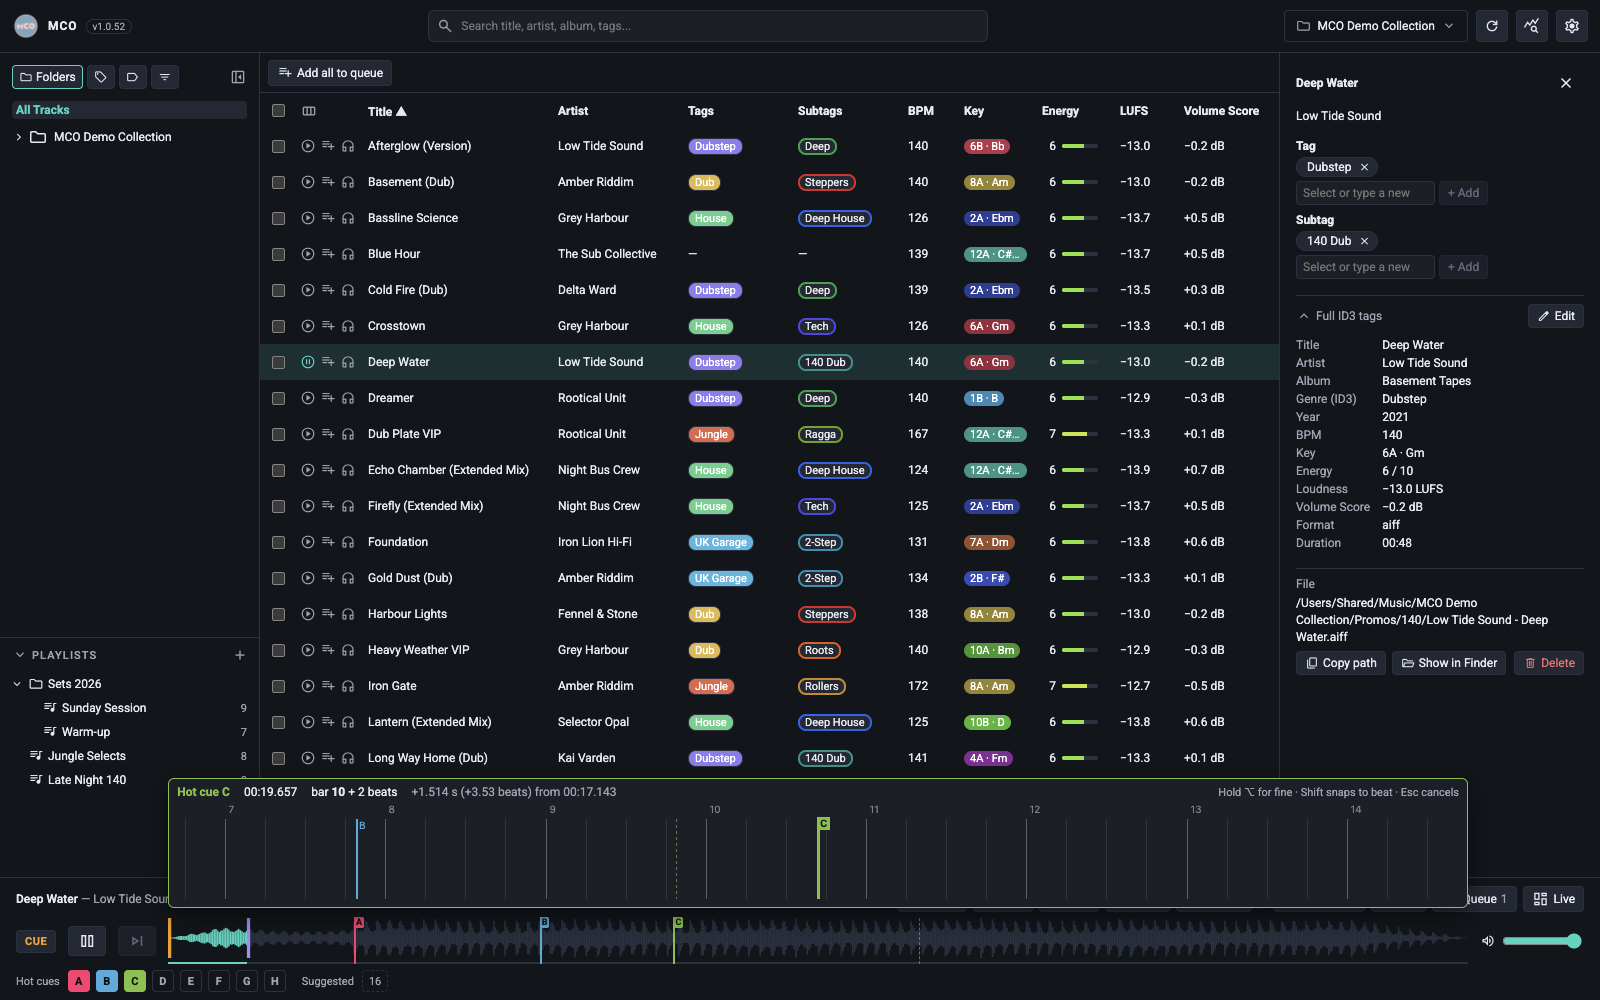
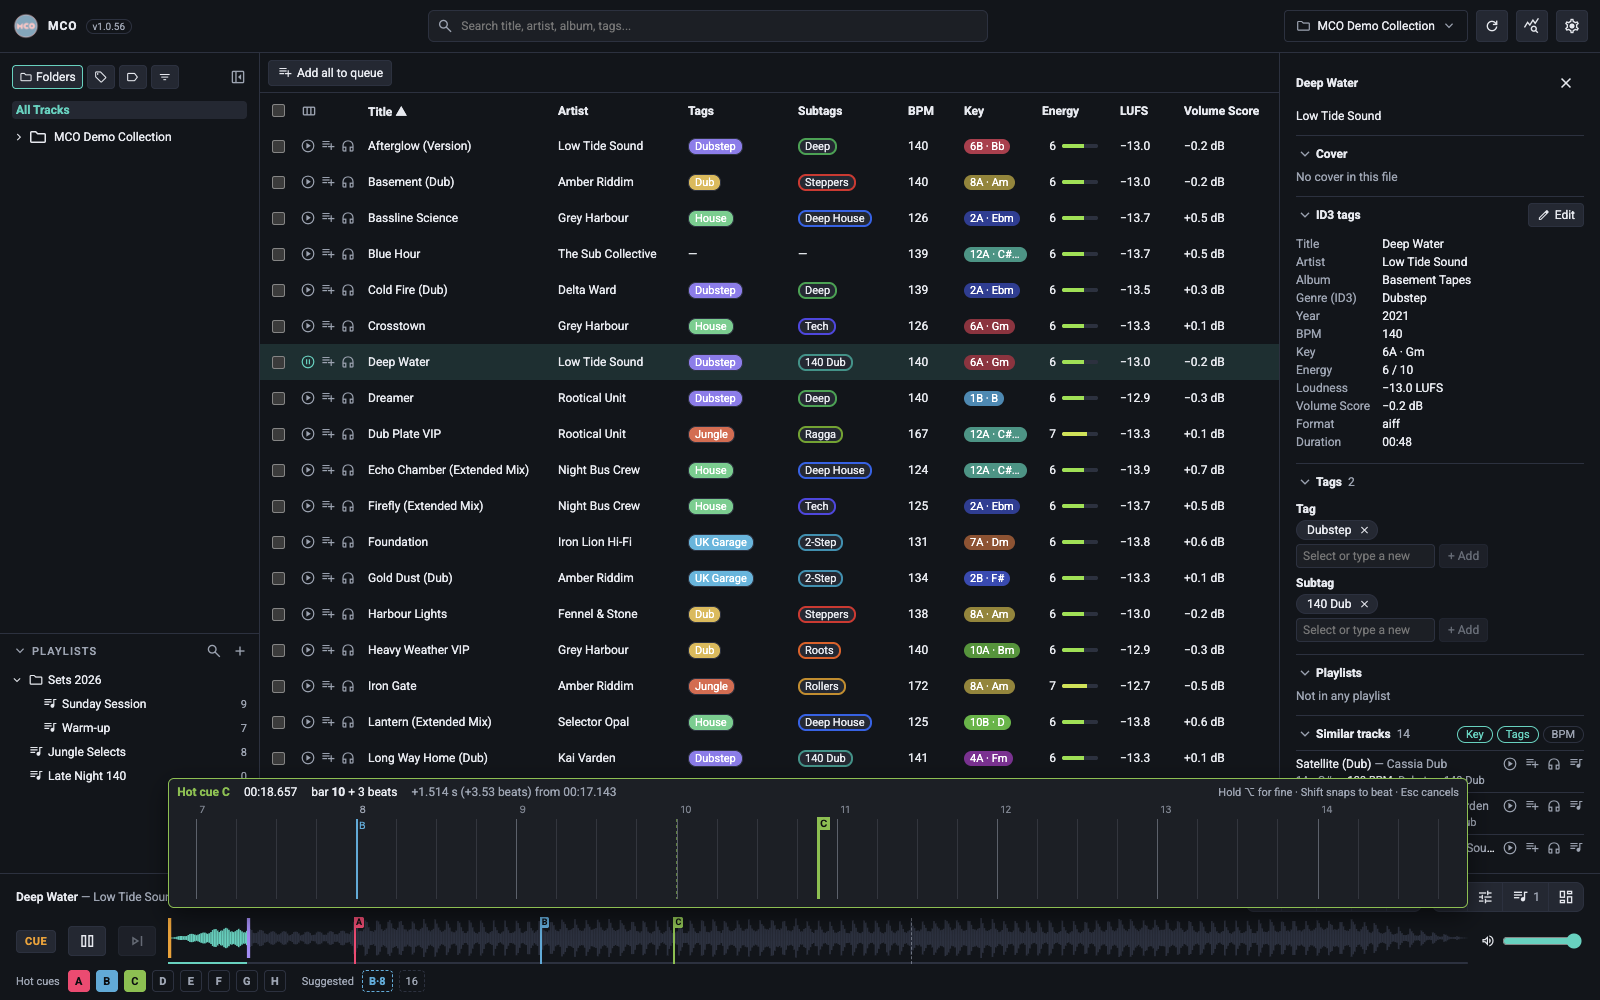
Website: screenshots re-captured at 1.0.56; the capture finds a global Playwright
- website/assets/shots: the eight screenshots redone from the real app
  (the Playlists box's search, the BPM switch in Similar tracks, and what
  1.0.55 changed in the track details).
- capture/app.mjs: looks for Playwright in npm's global folder too, as its
  own error message says to install it there.
- capture/README.md: clips don't record on a Mac with Playwright 1.64 and
  Electron 43 (the window stays blank with recordVideo), so they are
  unchanged.

diff --git a/website/capture/README.md b/website/capture/README.md
@@ -50,5 +50,11 @@ in `capture.mjs` and use it in `website/index.html`.
   opens while it runs; leave it be. The GPU draws the visualizer, so it
   looks better than on Linux's software WebGL.
 
+**Clips on a Mac don't record with Playwright 1.64 and Electron 43**
+(2026-10-08): with `recordVideo` on, the app's window stays blank and
+`launch()` times out at `waitForLoadState`. Screenshots are fine
+(`npm run site:capture -- shots`); make the clips on Linux until the Mac
+recording is redone.
+
 Audio plays into the void (no sound device) but the player, waveform and
 visualizer behave as they do on a Mac.
